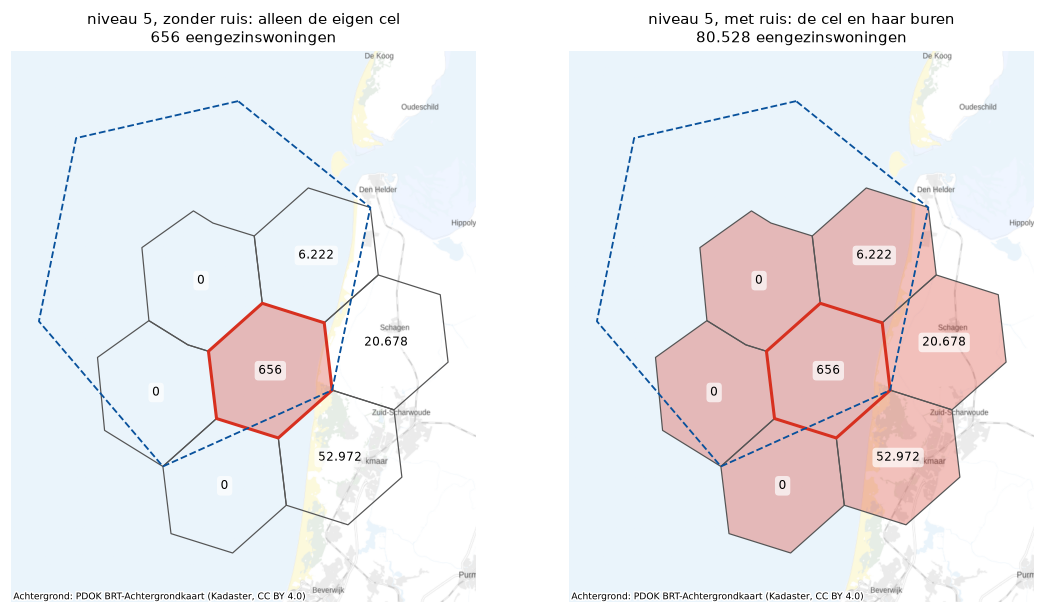
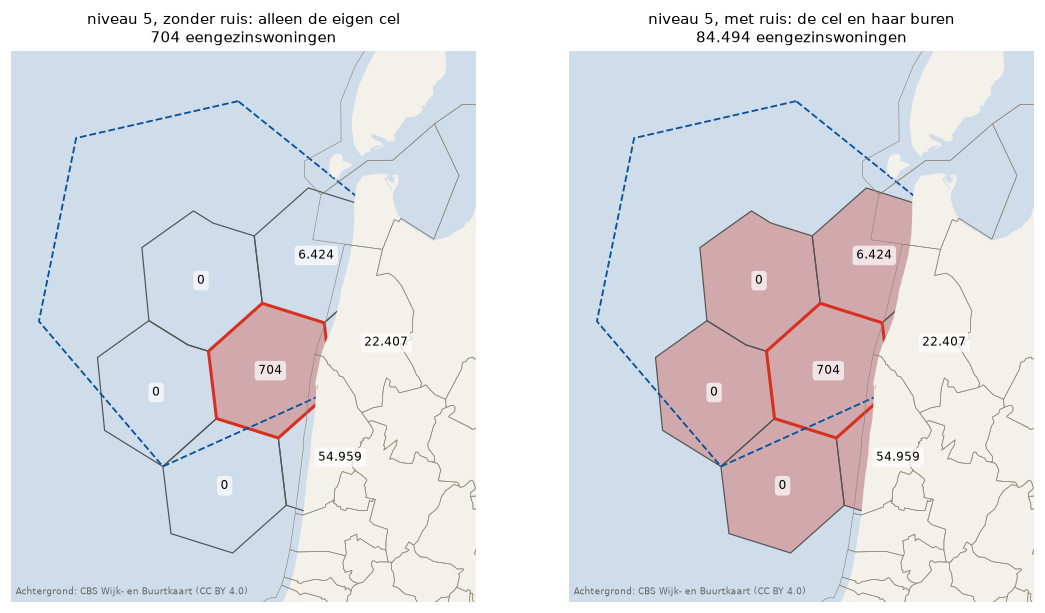
Kaarten: eigen land/water in plaats van PDOK-tegels; geen oppervlaktegrens meer
- docs/kaarten/maak_kaarten.py tekent nu hetzelfde Nederlandse land (met uitgespaard water) en
  dezelfde gemeentegrenzen als het Windows-venster, uit de lokale opslag (CBS Wijk- en
  Buurtkaart). Geen kaarttegels meer nodig: het script werkt offline, en een uitlegkaart ziet er
  hetzelfde uit als de app. contextily is niet langer een afhankelijkheid.
- De 50-250 m² afbakening is eruit: de kaarten en de cel-voorbeelden in de uitleg gaan nu over
  alle eengezinswoningen. Drie van de vier kaarten (KNMI-Voronoi, H3 niveau 4, de kustcel op
  niveau 4 en 5) zijn opnieuw gemaakt en de bijbehorende tekst en cijfers in
  herleidbaarheid-uitleg.md zijn bijgewerkt. De UHI-kaart en twee landelijke tabellen (§5, §10)
  zijn nog niet opnieuw berekend: zie correspondentie/2026-09-28-commandos-vanavond.md (niet in
  git) voor wat daarvoor nog nodig is.

Claude-Session: https://claude.ai/code/session_01QRUPtADgdbmmHDF2NFWH3P

diff --git a/docs/kaarten/maak_kaarten.py b/docs/kaarten/maak_kaarten.py
@@ -1,10 +1,12 @@
 """Kaarten bij docs/herleidbaarheid-uitleg.md, gemaakt uit echte data.
 
-* Achtergrond: PDOK BRT-Achtergrondkaart, grijs (Kadaster, CC BY 4.0), tegels van
-  https://service.pdok.nl/brt/achtergrondkaart/wmts/v2_0/grijs/EPSG:3857/{z}/{x}/{y}.png
+* Achtergrond: hetzelfde Nederlandse land (met water uitgespaard) en dezelfde gemeentegrenzen als
+  het Windows-venster tekent, uit de lokale opslag (CBS Wijk- en Buurtkaart, CC BY 4.0; via
+  ``anonymate ingest gebieden``). Geen kaarttegels: dan is dit script ook offline te draaien, en
+  ziet een uitlegkaart er hetzelfde uit als de app.
 * H3-cellen: de h3-bibliotheek (https://h3geo.org), dezelfde die anonymate gebruikt.
 * KNMI-stations, woningen en weerzones: de lokale anonymate-populatie (BAG, EP-online), zoals
-  ``anonymate build`` die opbouwt.
+  ``anonymate build`` die opbouwt. Alle eengezinswoningen, zonder oppervlaktegrens.
 * Hitte-eiland: RIVM, *Stedelijk hitte-eiland effect (UHI) in Nederland*
   (https://www.atlasleefomgeving.nl/thema/klimaatverandering/kaarten), als woninggewogen
   gemiddelde per PC6: een parquet-bestand met de kolommen ``pc6`` en ``uhi__degC``, via ``--uhi``.
@@ -13,7 +15,6 @@ Naast elke PNG een GeoJSON met dezelfde vlakken; GitHub toont die als interactie
 
 Gebruik::
 
-    pip install -e ".[kaarten]"
     python docs/kaarten/maak_kaarten.py --uhi PAD/uhi_pc6.parquet
 """
 from __future__ import annotations
@@ -22,7 +23,6 @@ import argparse
 import json
 from pathlib import Path
 
-import contextily as cx
 import duckdb
 import h3
 import matplotlib
@@ -33,6 +33,8 @@ import numpy as np  # noqa: E402
 import pandas as pd  # noqa: E402
 from matplotlib.collections import PolyCollection  # noqa: E402
 from matplotlib.colors import Normalize  # noqa: E402
+from matplotlib.patches import PathPatch, Rectangle  # noqa: E402
+from matplotlib.path import Path as MplPath  # noqa: E402
 from pyproj import Transformer  # noqa: E402
 from shapely.geometry import MultiPoint, Polygon, box, mapping  # noqa: E402
 from shapely.ops import transform, voronoi_diagram  # noqa: E402
@@ -40,8 +42,8 @@ from shapely.ops import transform, voronoi_diagram  # noqa: E402
 from anonymate.store import Store  # noqa: E402
 
 HIER = Path(__file__).parent
-PDOK = "https://service.pdok.nl/brt/achtergrondkaart/wmts/v2_0/grijs/EPSG:3857/{z}/{x}/{y}.png"
-BRON = "Achtergrond: PDOK BRT-Achtergrondkaart (Kadaster, CC BY 4.0)"
+BRON = "Achtergrond: CBS Wijk- en Buurtkaart (CC BY 4.0)"
+WATER, LAND, RAND = "#CFDDEA", "#F4F1EA", "#8C8577"    # zoals gui_kaart.py in het venster
 CEL = "8419681ffffffff"          # de weerzone in Noord-Holland met de grootste groei door ruis
 NL = (3.2, 50.7, 7.3, 53.6)      # lon/lat
 CEL5 = "85196807fffffff"         # een deelcel van niveau 5 in dezelfde risicocel
@@ -50,6 +52,10 @@ KLEUR = "#d7301f"
 naar_merc = Transformer.from_crs(4326, 3857, always_xy=True).transform
 naar_rd = Transformer.from_crs(4326, 28992, always_xy=True).transform
 rd_naar_wgs = Transformer.from_crs(28992, 4326, always_xy=True).transform
+
+# gevuld door main(), vóór de eerste kaart: het landpad (Mercator) en de gemeentegrenzen
+LAND_PATH: MplPath | None = None
+GRENZEN: pd.DataFrame | None = None
 
 
 def hexagon(cel: str) -> Polygon:
@@ -60,14 +66,38 @@ def merc(poly: Polygon) -> np.ndarray:
     return np.asarray(transform(naar_merc, poly).exterior.coords)
 
 
+def _land_path(store: Store) -> MplPath | None:
+    """Eén samengesteld Path (Mercator) van het Nederlandse land, uit de land-watergrens."""
+    pad = store.raw / "nederland_land.parquet"
+    if not pad.exists():
+        return None
+    verts, codes = [], []
+    for r in pd.read_parquet(pad)["ringen"]:
+        for ring in json.loads(r):
+            pts = [naar_merc(lo, la) for lo, la in ring]
+            verts += pts + [pts[0]]
+            codes += [MplPath.MOVETO] + [MplPath.LINETO] * (len(pts) - 1) + [MplPath.CLOSEPOLY]
+    return MplPath(np.array(verts), codes) if verts else None
+
+
 def kaart(ax, lonlat_bbox, titel: str) -> None:
     x0, y0 = naar_merc(lonlat_bbox[0], lonlat_bbox[1])
     x1, y1 = naar_merc(lonlat_bbox[2], lonlat_bbox[3])
     ax.set_xlim(x0, x1)
     ax.set_ylim(y0, y1)
-    cx.add_basemap(ax, source=PDOK, crs="EPSG:3857", attribution=BRON, attribution_size=6)
+    # set_axis_off() onderdrukt ook de eigen achtergrondkleur van de as: het water expliciet
+    ax.add_patch(Rectangle((x0, y0), x1 - x0, y1 - y0, facecolor=WATER, edgecolor="none",
+                           zorder=0))
+    if LAND_PATH is not None:
+        ax.add_patch(PathPatch(LAND_PATH, facecolor=LAND, edgecolor="none", zorder=1))
+    if GRENZEN is not None:
+        for r in GRENZEN["ringen"]:
+            for ring in json.loads(r):
+                pts = np.array([naar_merc(lo, la) for lo, la in ring])
+                ax.plot(pts[:, 0], pts[:, 1], color=RAND, linewidth=0.4, zorder=1.5)
     ax.set_axis_off()
     ax.set_title(titel, fontsize=10)
+    ax.text(0.01, 0.01, BRON, transform=ax.transAxes, fontsize=6, color="#666666", va="bottom")
 
 
 def geojson(pad: Path, vlakken: list[tuple[Polygon, dict]]) -> None:
@@ -85,11 +115,11 @@ def ruisfiguur(con, pop: str, eg: str, cel: str, niveau: int, naam: str,
                       [ring]).df().set_index("c").reindex(ring).fillna(0)
     vlakken = [(hexagon(c), {"cel": c, "rol": "eigen cel" if c == cel else "buurcel",
                              "woningen": int(tel.loc[c, "n"]),
-                             "eengezinswoningen 50-250 m²": int(tel.loc[c, "eg"])})
+                             "eengezinswoningen": int(tel.loc[c, "eg"])})
                for c in ring]
     geojson(HIER / f"{naam}.geojson", vlakken)
     eigen, alle = int(tel.loc[cel, "eg"]), int(tel["eg"].sum())
-    print(f"ruis niveau {niveau}: {eigen} -> {alle} eengezinswoningen 50-250 m² "
+    print(f"ruis niveau {niveau}: {eigen} -> {alle} eengezinswoningen "
           f"({alle / max(eigen, 1):.0f}x); alle woningen {int(tel.loc[cel, 'n'])} -> "
           f"{int(tel['n'].sum())}")
     punten = [pt for p, _ in vlakken for pt in p.exterior.coords]
@@ -113,7 +143,7 @@ def ruisfiguur(con, pop: str, eg: str, cel: str, niveau: int, naam: str,
                                              linestyles="--"))
         for p, props in vlakken:
             cx_, cy_ = naar_merc(*np.asarray(p.centroid.coords)[0])
-            ax.text(cx_, cy_, f"{props['eengezinswoningen 50-250 m²']:,}".replace(",", "."),
+            ax.text(cx_, cy_, f"{props['eengezinswoningen']:,}".replace(",", "."),
                     ha="center", va="center", fontsize=8,
                     bbox={"boxstyle": "round", "fc": "white", "alpha": 0.7, "lw": 0})
         n = alle if met_ruis else eigen
@@ -133,7 +163,16 @@ def main() -> None:
     pop = store.population_path.as_posix()
     con = duckdb.connect()
     con.execute("SET memory_limit='1GB'")
-    eg = "eengezins AND oppervlakte BETWEEN 50 AND 250"
+    eg = "eengezins"
+
+    global LAND_PATH, GRENZEN
+    LAND_PATH = _land_path(store)
+    grenzen_pad = store.raw / "gemeentegrenzen.parquet"
+    GRENZEN = pd.read_parquet(grenzen_pad) if grenzen_pad.exists() else None
+    if LAND_PATH is None:
+        print("let op: geen land-watergrens (draai 'anonymate ingest gebieden')")
+    if GRENZEN is None:
+        print("let op: geen gemeentegrenzen (draai 'anonymate ingest gebieden')")
 
     # --- 1. KNMI-stations: welk gebied ligt het dichtst bij welk station ------------------------
     st = pd.read_parquet(store.raw / "knmi_stations.parquet")
@@ -150,7 +189,7 @@ def main() -> None:
         i = next(j for j, p in enumerate(rd) if poly.contains(MultiPoint([p]).geoms[0]))
         vlakken.append((transform(rd_naar_wgs, poly.intersection(kader)), {
             "station": str(st["knmi_station"].iloc[i]), "naam": st["naam"].iloc[i],
-            "eengezinswoningen 50-250 m²": int(st["n"].iloc[i])}))
+            "eengezinswoningen": int(st["n"].iloc[i])}))
     geojson(HIER / "knmi_voronoi.geojson", vlakken)
     fig, ax = plt.subplots(figsize=(7, 8))
     kleuren = plt.get_cmap("tab20")(np.arange(len(vlakken)) % 20)
@@ -166,7 +205,7 @@ def main() -> None:
     per_cel = con.execute(f"""SELECT h3_r4, count(*) n, sum(({eg})::int) eg
         FROM read_parquet('{pop}') WHERE h3_r4 IS NOT NULL GROUP BY 1""").df()
     vlakken = [(hexagon(c), {"cel": c, "woningen": int(n),
-                             "eengezinswoningen 50-250 m²": int(e)})
+                             "eengezinswoningen": int(e)})
                for c, n, e in per_cel.itertuples(index=False)]
     geojson(HIER / "h3_niveau4.geojson", vlakken)
     fig, ax = plt.subplots(figsize=(7, 8))

diff --git a/docs/herleidbaarheid-uitleg.md b/docs/herleidbaarheid-uitleg.md
@@ -53,7 +53,7 @@ de juiste volgorde. Afwegen gebeurt daarna, binnen de norm.
 **In bits: Shannon-entropie.** k zegt iets over één woning; bits maken kenmerken onderling
 vergelijkbaar en optelbaar. Om één woning aan te wijzen tussen N gelijke kandidaten zijn log2(N)
 ja/nee-vragen nodig, zoals bij *Wie is het?*: 23 bits voor de ruim 8 miljoen Nederlandse woningen,
-22 bits voor de 5 miljoen eengezinswoningen van 50 tot 250 m². Elk gepubliceerd kenmerk
+22 bits voor de ruim 5,3 miljoen eengezinswoningen. Elk gepubliceerd kenmerk
 beantwoordt een deel van die vragen. Hoeveel, is de **Shannon-entropie** van de gepubliceerde
 waarden over de populatie:
 
@@ -116,23 +116,27 @@ de woninglocatie is gezet. Het effect hangt helemaal van die ruis af:
 *Links: het gebied dat het dichtst bij elk KNMI-station ligt (Voronoi-cellen), rechts: de
 H3-cellen van niveau 4 waarin woningen staan, met in rood de cel uit het voorbeeld hieronder.
 Interactief: [stations](kaarten/knmi_voronoi.geojson), [H3-cellen](kaarten/h3_niveau4.geojson)
-(met aantallen woningen per vlak; GitHub toont een GeoJSON-bestand als kaart). Achtergrond: [PDOK BRT-Achtergrondkaart](https://service.pdok.nl/brt/achtergrondkaart/wmts/v2_0?request=GetCapabilities&service=WMTS) (Kadaster, CC BY 4.0); cellen met de [H3-bibliotheek](https://h3geo.org); gemaakt met [`kaarten/maak_kaarten.py`](kaarten/maak_kaarten.py).*
+(met aantallen woningen per vlak; GitHub toont een GeoJSON-bestand als kaart). Achtergrond: CBS
+Wijk- en Buurtkaart (CC BY 4.0); cellen met de [H3-bibliotheek](https://h3geo.org); gemaakt met
+[`kaarten/maak_kaarten.py`](kaarten/maak_kaarten.py).*
 
 * **Zonder ruis** is een zeshoek van niveau 4 (~1.800 km²) ongeveer even precies als het gebied van
   een weerstation. Winst is er dan niet.
 * **Met ruis** kan de woning ook in een van de zes buurzeshoeken liggen. Een aanvaller moet dan in
   zeven zeshoeken tegelijk zoeken. Daar staan in de mediaan **7 keer** zoveel woningen (P10-P90:
-  4 tot 21 keer); langs de kust, het IJsselmeer of een stadsrand soms **meer dan 100 keer** (het
-  uiterste in Noord-Holland: van 2.652 naar 394.755 eengezinswoningen). In bits: de ruis geeft in de
-  mediaan log2(7) = 2,8 bits bescherming terug, en tot 7,2 bits. Zeldzame woningen zijn dan niet
-  meer zeldzaam.
+  4 tot 21 keer); langs de kust, het IJsselmeer of een stadsrand soms **meer dan 100 keer** (een
+  voorbeeld aan de Noord-Hollandse kust hieronder: van 2.874 naar 412.185 eengezinswoningen, 143
+  keer). In bits: de ruis geeft in de mediaan log2(7) = 2,8 bits bescherming terug, en in dit
+  voorbeeld 7,2 bits. Zeldzame woningen zijn dan niet meer zeldzaam.
 
 ![Een kustcel in Noord-Holland zonder en met ruis](kaarten/h3_ruis.png)
 
-*De cel uit het voorbeeld (H3 `8419681ffffffff`, rood omlijnd) is vooral zee: er staan 2.652
-eengezinswoningen van 50 tot 250 m², in een smalle kuststrook. Met ruis zoekt een aanvaller in de
-cel en haar zes buren tegelijk, met Den Helder, Alkmaar en Haarlem erin: 394.755 woningen.
-Interactief: [de cel en haar buren](kaarten/h3_ruis.geojson). Achtergrond: [PDOK BRT-Achtergrondkaart](https://service.pdok.nl/brt/achtergrondkaart/wmts/v2_0?request=GetCapabilities&service=WMTS) (Kadaster, CC BY 4.0); cellen met de [H3-bibliotheek](https://h3geo.org); gemaakt met [`kaarten/maak_kaarten.py`](kaarten/maak_kaarten.py).*
+*De cel uit het voorbeeld (H3 `8419681ffffffff`, rood omlijnd) is vooral zee: er staan 2.874
+eengezinswoningen, in een smalle kuststrook. Met ruis zoekt een aanvaller in de cel en haar zes
+buren tegelijk, met Den Helder, Alkmaar en Haarlem erin: 412.185 woningen.
+Interactief: [de cel en haar buren](kaarten/h3_ruis.geojson). Achtergrond: CBS Wijk- en
+Buurtkaart (CC BY 4.0); cellen met de [H3-bibliotheek](https://h3geo.org); gemaakt met
+[`kaarten/maak_kaarten.py`](kaarten/maak_kaarten.py).*
 
 **Geen nieuw idee, wel een nieuwe toepassing.** Locaties verstoren vóór publicatie heet
 *geomasking* en is gangbaar in de gezondheidszorg: willekeurig verschuiven (Armstrong, Rushton &
@@ -185,12 +189,11 @@ weerpunt dichter bij de woning dan nu.
 ![Een cel van niveau 5 in dezelfde kuststrook, zonder en met ruis](kaarten/h3_ruis_niveau5.png)
 
 *Dezelfde kuststrook op niveau 5 (H3 `85196807fffffff`, rood omlijnd; blauw gestreept de cel van
-niveau 4 van hierboven). Zonder ruis wijst de cel 656 eengezinswoningen aan, een kwart van de
+niveau 4 van hierboven). Zonder ruis wijst de cel 704 eengezinswoningen aan, een kwart van de
 cel van niveau 4: kleinere cellen zijn preciezer voor het weer, en daarmee ook voor de aanvaller.
-Met ruis zoekt de aanvaller weer in zeven cellen: 80.528 woningen, 123 keer zoveel. Interactief:
-[de cel en haar buren](kaarten/h3_ruis_niveau5.geojson). Achtergrond:
-[PDOK BRT-Achtergrondkaart](https://service.pdok.nl/brt/achtergrondkaart/wmts/v2_0?request=GetCapabilities&service=WMTS)
-(Kadaster, CC BY 4.0); gemaakt met [`kaarten/maak_kaarten.py`](kaarten/maak_kaarten.py).*
+Met ruis zoekt de aanvaller weer in zeven cellen: 84.494 woningen, 120 keer zoveel. Interactief:
+[de cel en haar buren](kaarten/h3_ruis_niveau5.geojson). Achtergrond: CBS Wijk- en Buurtkaart
+(CC BY 4.0); gemaakt met [`kaarten/maak_kaarten.py`](kaarten/maak_kaarten.py).*
 
 **Het stedelijk hitte-eiland: in de berekening wel, als kolom niet.** In de stad is het warmer
 dan op het weerstation (volgens de RIVM-kaart per postcode 0,8 °C in de mediaan, bij 10% van de eengezinswoningen meer dan 1,5 °C). Een model dat de
@@ -227,7 +230,8 @@ gemiddeld over de woningen). Op 0,1 °C afgerond telt het 23 waarden en tekent h
 apart, de stadskernen het warmst: dat is een kaart van waar iemand woont. Op 1 °C blijven 3
 waarden over, maar ook die scheiden nog stad van platteland. De eigen cel (rood) is
 vrijwel overal koel. UHI: RIVM, [*Stedelijk hitte-eiland effect in Nederland*](https://www.atlasleefomgeving.nl/thema/klimaatverandering/kaarten),
-woninggewogen per postcode. Achtergrond: [PDOK BRT-Achtergrondkaart](https://service.pdok.nl/brt/achtergrondkaart/wmts/v2_0?request=GetCapabilities&service=WMTS) (Kadaster, CC BY 4.0); cellen met de [H3-bibliotheek](https://h3geo.org); gemaakt met [`kaarten/maak_kaarten.py`](kaarten/maak_kaarten.py).*
+woninggewogen per postcode. Achtergrond: CBS Wijk- en Buurtkaart (CC BY 4.0); cellen met de
+[H3-bibliotheek](https://h3geo.org); gemaakt met [`kaarten/maak_kaarten.py`](kaarten/maak_kaarten.py).*
 
 **Weer dat al in de dataset zit.** Staat er per woning een reeks buitentemperaturen in, dan
 verraadt die zelf waar hij vandaan komt, ook als er geen station of cel bij staat. Een aanvaller
